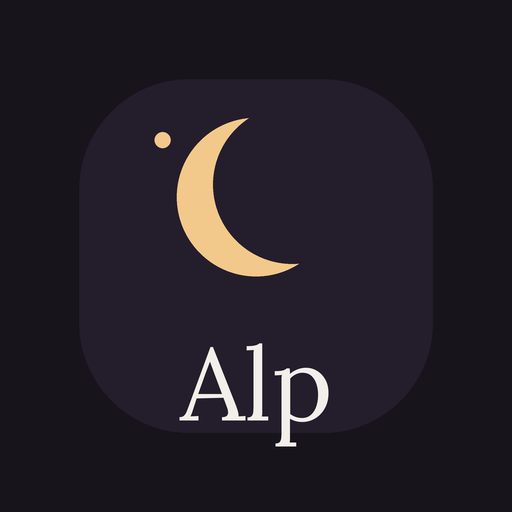
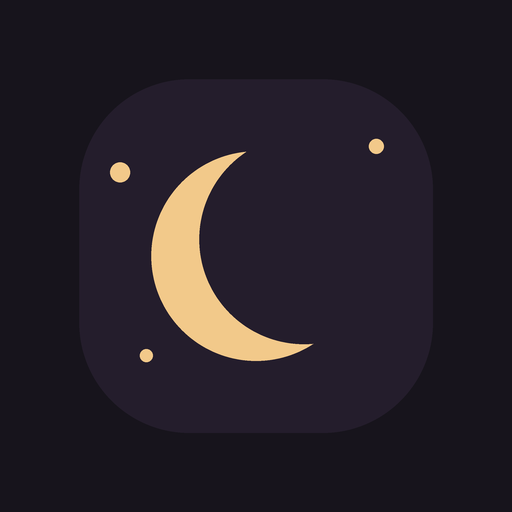
Isim gizliligi, cok dozlu bakim takibi ve tarih araligi PDF raporu

diff --git a/index.html b/index.html
@@ -3,14 +3,14 @@
 <head>
 <meta charset="UTF-8" />
 <meta name="viewport" content="width=device-width, initial-scale=1, maximum-scale=1, viewport-fit=cover" />
-<title>Alp · Bebek Takip</title>
+<title>Bebek Takip</title>
 <link rel="manifest" href="manifest.json" />
 <link rel="icon" href="icon-192.png" />
 <link rel="apple-touch-icon" href="icon-192.png" />
 <meta name="theme-color" content="#17141c" id="themeColor" />
 <meta name="apple-mobile-web-app-capable" content="yes" />
 <meta name="apple-mobile-web-app-status-bar-style" content="black-translucent" />
-<meta name="apple-mobile-web-app-title" content="Alp" />
+<meta name="apple-mobile-web-app-title" content="Bebek Takip" />
 <link rel="preconnect" href="https://fonts.googleapis.com">
 <link rel="preconnect" href="https://fonts.gstatic.com" crossorigin>
 <link href="https://fonts.googleapis.com/css2?family=Fraunces:opsz,wght@9..144,400;9..144,600;9..144,700&family=Inter:wght@400;500;600&display=swap" rel="stylesheet">
@@ -196,6 +196,20 @@
   .vbtn.on{border-color:var(--care);color:var(--care);}
   .vnote{font-size:10.5px;color:var(--muted);line-height:1.6;margin-top:18px;padding:0 2px;}
 
+  .doseTag{display:inline-block;background:var(--alertBg);color:var(--milk);border-radius:5px;
+    padding:1px 6px;font-size:9.5px;margin-left:6px;font-family:'Inter',sans-serif;vertical-align:middle;}
+  .doseDot{width:8px;height:8px;border-radius:50%;background:var(--surface-2);
+    border:1px solid var(--line);display:inline-block;}
+  .doseDot.on{background:var(--care);border-color:var(--care);}
+  .doseDot.late{border-color:var(--alert);background:transparent;}
+  .doseTimes{font-size:10.5px;color:var(--muted);margin-left:6px;}
+  .careActs{display:flex;align-items:center;gap:10px;}
+  .careCfg{background:none;border:none;color:var(--muted);font-size:13px;cursor:pointer;padding:2px 4px;}
+  .careCfgBox{margin-top:11px;padding-top:11px;border-top:1px solid var(--line);}
+  .doseTimeRow{display:flex;gap:6px;flex-wrap:wrap;}
+  .doseTime{background:var(--surface-2);border:1px solid var(--line);color:var(--text);
+    border-radius:8px;padding:6px 8px;font-size:12px;font-family:'Inter',sans-serif;}
+
   .tabs{position:fixed;left:0;right:0;bottom:0;background:var(--tabBg);backdrop-filter:blur(14px);
     border-top:1px solid var(--line);display:flex;padding:7px 8px calc(7px + env(safe-area-inset-bottom));
     max-width:460px;margin:0 auto;}
@@ -212,7 +226,7 @@
 <div class="loginWrap" id="loginScreen" style="display:none;">
   <div class="loginCard">
     <div class="loginMoon">🌙</div>
-    <h1 class="loginTitle">Alp</h1>
+    <h1 class="loginTitle">Bebek Takip</h1>
     <div class="loginSub">Devam etmek için şifre girin</div>
     <input type="password" id="pinInput" placeholder="••••••••" autocomplete="current-password" />
     <button id="loginBtn">Giriş yap</button>
@@ -225,7 +239,7 @@
     <div class="hdrL">
       <div class="hdrMoon">🌙<span class="star">✦</span></div>
       <div>
-        <h1 class="hdrName" id="hdrName">Alp</h1>
+        <h1 class="hdrName" id="hdrName">&nbsp;</h1>
         <div class="hdrSub" id="hdrSub">Bağlanılıyor…</div>
       </div>
     </div>
@@ -256,7 +270,7 @@ const SUPABASE_URL="https://mqsrnkzdfzstznfqflso.supabase.co";
 const SUPABASE_ANON_KEY="sb_publishable_2yIWU2OZOqhKoXORpO5_9g_rzey2_9z";
 const LOGIN_EMAIL="aile@bebektakip.app";
 const VAPID_PUBLIC_KEY="BJZkyQ1h6ATndhytyv-MwjU4YSiWxF3wyiROm6IwREzDEguikK1MAwx1poklTCARspIURcBb4urk_y88BrBPJbA";
-const BABY="Alp";
+let BABY="";  // giriş sonrası settings tablosundan yüklenir
 
 /* ---- theme ---- */
 function applyTheme(t){
@@ -335,11 +349,35 @@ function greeting(){
 const FEED={ milk:{name:'Anne Sütü',ic:'🤱',color:'var(--milk)'}, formula:{name:'Mama',ic:'🍼',color:'var(--formula)'}, pump:{name:'Sağma',ic:'🫙',color:'var(--pump)'} };
 const DIAPER={ pee:{name:'Çiş',ic:'💧',color:'var(--pee)'}, poop:{name:'Kaka',ic:'💩',color:'var(--poop)'}, both:{name:'İkisi de',ic:'🧷',color:'var(--poop)'} };
 const CARE={
-  vitamin_d:{name:'Vitamin D',ic:'☀',key:'reminder_vitamin_d_time',daily:1},
-  eye_drops:{name:'Göz Damlası',ic:'👁',key:'reminder_eye_drops_time',daily:1},
-  nose_drops:{name:'Burun Damlası',ic:'💦',key:'reminder_nose_drops_time',daily:1},
-  nose_cleaning:{name:'Burun Temizliği',ic:'🧼',key:null,daily:null},
+  vitamin_d:{name:'Vitamin D',ic:'☀'},
+  eye_drops:{name:'Göz Damlası',ic:'👁'},
+  nose_drops:{name:'Burun Damlası',ic:'💦'},
+  nose_cleaning:{name:'Burun Temizliği',ic:'🧼'},
 };
+function careKey(kind){ return 'care_'+kind+'_times'; }
+function careTimes(kind){
+  const raw=settings[careKey(kind)];
+  if(!raw) return [];
+  return raw.split(',').map(x=>x.trim()).filter(Boolean).sort();
+}
+function defaultTimes(n){
+  if(n<=0) return [];
+  if(n===1) return ['09:00'];
+  const start=8*60, step=(22*60-start)/(n-1);
+  return Array.from({length:n},(_,i)=>{
+    const t=Math.round(start+step*i);
+    return String(Math.floor(t/60)).padStart(2,'0')+':'+String(t%60).padStart(2,'0');
+  });
+}
+function minsNow(){ const d=new Date(); return d.getHours()*60+d.getMinutes(); }
+function toMins(hm){ const [h,m]=hm.split(':').map(Number); return h*60+m; }
+function overdueDose(kind){
+  const times=careTimes(kind);
+  if(!times.length) return -1;
+  const done=careToday(kind).length;
+  for(let i=done;i<times.length;i++){ if(minsNow()>toMins(times[i])) return i; }
+  return -1;
+}
 const INTERVALS=[1.5,2,2.5,3,3.5,4];
 const SIDE={ left:{name:'Sol',short:'sol'}, right:{name:'Sağ',short:'sağ'}, both:{name:'İkisi',short:'ikisi'} };
 const SIDE_TYPES=['milk','pump'];  // taraf sadece emzirme ve sağmada sorulur
@@ -366,7 +404,8 @@ const VACCINES=[
 const ivLabel=v=>v===Math.floor(v)?v+' saat':(Math.floor(v)+' buçuk saat');
 
 let entries=[],diapers=[],careLogs=[],growth=[],vaccines=[],settings={};
-let tab='feed', dsel={feed:today(),diaper:today()}, panel=null, showSettings=false, supabase;
+let tab='feed', dsel={feed:today(),diaper:today()}, panel=null, showSettings=false, careOpen=null, supabase;
+let report={from:'',to:''};
 
 /* ---- rhythm strip ---- */
 function rhythmStrip(dateStr, mode){
@@ -410,8 +449,84 @@ function viewSettings(){
       ${INTERVALS.map(v=>`<div class="chip ${v===fh?'on':''}" data-a="setIv" data-key="reminder_feed_hours" data-v="${v}">${ivLabel(v)}</div>`).join('')}</div></div>
     <div class="setGroup"><div class="setLabel">Sağma hatırlatması — son sağmadan sonra</div><div class="chips">
       ${INTERVALS.map(v=>`<div class="chip ${v===ph?'on':''}" data-a="setIv" data-key="reminder_pump_hours" data-v="${v}">${ivLabel(v)}</div>`).join('')}</div></div>
+    <div class="setGroup"><div class="setLabel">Rapor / PDF çıktısı</div>
+      <div class="row2">
+        <div class="fld"><label>Başlangıç</label><input type="date" value="${report.from||weekAgo()}" data-a="reportField" data-f="from"/></div>
+        <div class="fld"><label>Bitiş</label><input type="date" value="${report.to||today()}" data-a="reportField" data-f="to"/></div>
+      </div>
+      <div class="chips">
+        <div class="chip" data-a="makeReport" data-kind="feed">🍼 Beslenme</div>
+        <div class="chip" data-a="makeReport" data-kind="diaper">💧 Bez</div>
+        <div class="chip" data-a="makeReport" data-kind="all">📄 İkisi birden</div>
+      </div>
+      <div class="setLabel" style="margin-top:-4px;">Açılan sayfada “PDF olarak kaydet”e dokunun</div>
+    </div>
     <div class="pacts"><button class="bCancel" data-a="closeSettings">Kapat</button></div>
   </div>`;
+}
+function weekAgo(){ const d=new Date(); d.setDate(d.getDate()-6); return fmtDate(d); }
+function daysBetween(from,to){
+  const out=[], d=new Date(from+'T00:00:00'), end=new Date(to+'T00:00:00');
+  while(d<=end){ out.push(fmtDate(d)); d.setDate(d.getDate()+1); }
+  return out;
+}
+function buildReport(kind){
+  const from=report.from||weekAgo(), to=report.to||today();
+  if(new Date(from+'T00:00:00')>new Date(to+'T00:00:00')) return null;
+  const days=daysBetween(from,to);
+  if(!days.length||days.length>120) return null;
+  const showFeed=kind==='feed'||kind==='all', showDia=kind==='diaper'||kind==='all';
+  const title=(BABY?BABY+' · ':'')+'Takip Raporu';
+  const fmtL=d=>new Date(d+'T00:00:00').toLocaleDateString('tr-TR',{day:'numeric',month:'long',year:'numeric'});
+  let tMilk=0,tForm=0,tPump=0,tFeeds=0,tPee=0,tPoop=0;
+  const blocks=days.map(ds=>{
+    const fe=entries.filter(e=>localDay(e.time)===ds).sort((a,b)=>new Date(a.time)-new Date(b.time));
+    const di=diapers.filter(d=>localDay(d.time)===ds).sort((a,b)=>new Date(a.time)-new Date(b.time));
+    const milk=fe.filter(e=>e.type==='milk').reduce((s,e)=>s+e.amount,0);
+    const form=fe.filter(e=>e.type==='formula').reduce((s,e)=>s+e.amount,0);
+    const pump=fe.filter(e=>e.type==='pump').reduce((s,e)=>s+e.amount,0);
+    const feeds=fe.filter(e=>e.type!=='pump').length;
+    const pee=di.filter(d=>d.kind!=='poop').length, poop=di.filter(d=>d.kind!=='pee').length;
+    tMilk+=milk;tForm+=form;tPump+=pump;tFeeds+=feeds;tPee+=pee;tPoop+=poop;
+    if((!showFeed||!fe.length)&&(!showDia||!di.length)) return '';
+    const sum=[];
+    if(showFeed) sum.push(`Anne sütü ${milk} cc`,`Mama ${form} cc`,`Sağma ${pump} cc`,`${feeds} beslenme`);
+    if(showDia) sum.push(`${pee} çiş`,`${poop} kaka`);
+    let t='';
+    if(showFeed&&fe.length) t+=`<table><thead><tr><th>Saat</th><th>Tür</th><th>Miktar</th><th>Taraf</th></tr></thead><tbody>`
+      +fe.map(e=>`<tr><td>${hhmm(e.time)}</td><td>${FEED[e.type].name}</td><td>${e.amount} cc</td><td>${e.side?SIDE[e.side].name:'–'}</td></tr>`).join('')+`</tbody></table>`;
+    if(showDia&&di.length) t+=`<table><thead><tr><th>Saat</th><th>Bez</th></tr></thead><tbody>`
+      +di.map(d=>`<tr><td>${hhmm(d.time)}</td><td>${DIAPER[d.kind].name}</td></tr>`).join('')+`</tbody></table>`;
+    return `<section><h3>${new Date(ds+'T00:00:00').toLocaleDateString('tr-TR',{day:'numeric',month:'long',year:'numeric',weekday:'long'})}</h3>
+      <p class="sum">${sum.join(' · ')}</p>${t}</section>`;
+  }).join('');
+  const nd=days.length, avg=[];
+  if(showFeed) avg.push(`<tr><td>Günlük ortalama anne sütü</td><td>${Math.round(tMilk/nd)} cc</td></tr>`,
+    `<tr><td>Günlük ortalama mama</td><td>${Math.round(tForm/nd)} cc</td></tr>`,
+    `<tr><td>Günlük ortalama toplam alım</td><td>${Math.round((tMilk+tForm)/nd)} cc</td></tr>`,
+    `<tr><td>Günlük ortalama sağma</td><td>${Math.round(tPump/nd)} cc</td></tr>`,
+    `<tr><td>Günlük ortalama beslenme sayısı</td><td>${(tFeeds/nd).toFixed(1)}</td></tr>`);
+  if(showDia) avg.push(`<tr><td>Günlük ortalama çiş</td><td>${(tPee/nd).toFixed(1)}</td></tr>`,
+    `<tr><td>Günlük ortalama kaka</td><td>${(tPoop/nd).toFixed(1)}</td></tr>`);
+  return `<!DOCTYPE html><html lang="tr"><head><meta charset="utf-8"><meta name="viewport" content="width=device-width,initial-scale=1"><title>${title}</title>
+  <style>@page{margin:16mm;}*{box-sizing:border-box;}
+  body{font-family:-apple-system,BlinkMacSystemFont,'Segoe UI',Roboto,sans-serif;color:#1a1a1a;margin:0;padding:22px;line-height:1.45;}
+  h1{font-size:20px;margin:0 0 3px;}.range{color:#666;font-size:13px;margin-bottom:18px;}
+  h2{font-size:14px;margin:22px 0 8px;border-bottom:1px solid #ddd;padding-bottom:5px;}
+  section{margin-bottom:16px;page-break-inside:avoid;}h3{font-size:13px;margin:0 0 3px;}
+  .sum{margin:0 0 7px;color:#555;font-size:11.5px;}
+  table{width:100%;border-collapse:collapse;font-size:11.5px;margin-bottom:7px;}
+  th{text-align:left;background:#f3f3f3;padding:4px 7px;font-weight:600;border-bottom:1px solid #ddd;}
+  td{padding:4px 7px;border-bottom:1px solid #eee;}
+  .totals td:first-child{color:#555;}.totals td:last-child{text-align:right;font-weight:600;}
+  footer{margin-top:24px;color:#888;font-size:10px;border-top:1px solid #ddd;padding-top:8px;}
+  .noprint{position:fixed;top:10px;right:10px;background:#1a1a1a;color:#fff;border:none;padding:11px 16px;border-radius:8px;font-size:14px;cursor:pointer;}
+  @media print{body{padding:0;}.noprint{display:none;}}</style></head><body>
+  <button class="noprint" onclick="window.print()">PDF olarak kaydet</button>
+  <h1>${title}</h1><div class="range">${fmtL(from)} – ${fmtL(to)} · ${nd} gün</div>
+  <h2>Özet</h2><table class="totals">${avg.join('')}</table>
+  <h2>Günlük kayıtlar</h2>${blocks||'<p style="color:#888;font-size:12px;">Bu aralıkta kayıt yok.</p>'}
+  <footer>Oluşturulma: ${new Date().toLocaleString('tr-TR')}</footer></body></html>`;
 }
 
 /* ---- FEED ---- */
@@ -602,26 +717,39 @@ function careToday(k){ return careLogs.filter(c=>c.kind===k&&isToday(c.time)).so
 function viewCare(){
   const rows=Object.entries(CARE).map(([kind,m])=>{
     const list=careToday(kind), n=list.length;
-    const target=m.key?settings[m.key]:null;
-    const done=m.daily?n>=m.daily:n>0;
+    const times=careTimes(kind), target=times.length;
+    const od=overdueDose(kind);
+    const done = target>0 ? n>=target : n>0;
     let meta;
-    if(m.daily){
-      if(n>0) meta=`Bugün yapıldı · ${hhmm(list[0].time)}`;
-      else{
-        const [h,mi]=(target||'09:00').split(':').map(Number);
-        const t=new Date(); t.setHours(h,mi,0,0);
-        meta=Date.now()>t.getTime()?`<span class="late">Saati geçti — henüz yapılmadı</span>`:`Bugün için planlandı`;
-      }
-    } else meta = n>0?`Bugün ${n} kez · son ${hhmm(list[0].time)}`:'Bugün henüz yapılmadı';
-    return `<div class="care"><div class="careTop">
-      <div class="careL"><div class="careIc ${done?'done':''}">${m.ic}</div>
-        <div style="min-width:0;"><div class="careName">${m.name}</div><div class="careMeta">${meta}</div></div></div>
-      <button class="careAdd ${done?'done':''}" data-a="logCare" data-k="${kind}">${done&&m.daily?'✓ Yapıldı':'+ Kaydet'}</button></div>
+    if(target>0){
+      if(n>=target) meta=`Bugün tamamlandı · ${n}/${target} doz`;
+      else if(od>=0) meta=`<span class="late">${od+1}. doz saati geçti (${times[od]})</span> · ${n}/${target}`;
+      else meta=`${n}/${target} doz · sırada ${times[n]}`;
+    } else {
+      meta = n>0 ? `Bugün ${n} kez · son ${hhmm(list[0].time)}` : 'Bugün henüz yapılmadı';
+    }
+    const open = careOpen===kind;
+    return `<div class="care">
+      <div class="careTop">
+        <div class="careL"><div class="careIc ${done?'done':''}">${m.ic}</div>
+          <div style="min-width:0;"><div class="careName">${m.name}${target>1?`<span class="doseTag">${target}x1</span>`:''}</div>
+          <div class="careMeta">${meta}</div></div></div>
+        <button class="careAdd ${done?'done':''}" data-a="logCare" data-k="${kind}">${done&&target>0?'✓ Tamam':'+ Kaydet'}</button></div>
       <div class="careBottom">
-        ${m.key?`<div class="careTimes">Hatırlatma <input type="time" value="${target||'09:00'}" data-a="setTime" data-key="${m.key}"/></div>`
-          :`<div class="careDots">${n?Array.from({length:Math.min(n,8)}).map(()=>`<span class="careDot"></span>`).join(''):'<span style="font-size:11px;color:var(--muted)">kayıt yok</span>'}${n>8?`<span style="font-size:11px;color:var(--muted);margin-left:3px;">+${n-8}</span>`:''}</div>`}
-        ${n?`<button class="careUndo" data-a="undoCare" data-id="${list[0].id}">son kaydı geri al</button>`:'<span></span>'}
-      </div></div>`;
+        <div class="careDots">
+          ${target>0
+            ? times.map((t,i)=>`<span class="doseDot ${i<n?'on':(minsNow()>toMins(t)?'late':'')}"></span>`).join('')
+              +`<span class="doseTimes">${times.join(' · ')}</span>`
+            : (n?Array.from({length:Math.min(n,10)}).map(()=>`<span class="doseDot on"></span>`).join('')+(n>10?`<span class="doseTimes">+${n-10}</span>`:'')
+                :'<span class="doseTimes">planlanmadı</span>')}
+        </div>
+        <div class="careActs">
+          ${n?`<button class="careUndo" data-a="undoCare" data-id="${list[0].id}">geri al</button>`:''}
+          <button class="careCfg" data-a="careCfg" data-k="${kind}">${open?'✕':'⚙'}</button>
+        </div>
+      </div>
+      ${open?careConfig(kind,times):''}
+    </div>`;
   }).join('');
   const log=careLogs.filter(c=>isToday(c.time)).sort((a,b)=>new Date(b.time)-new Date(a.time));
   return rows+(log.length?`<div class="listLabel">Bugünün bakım kayıtları</div>`+log.map(c=>
@@ -629,6 +757,16 @@ function viewCare(){
       <div class="itemMid"><div class="itemName">${CARE[c.kind].name}</div><div class="itemMeta">${hhmm(c.time)} · ${ago(c.time)}</div></div>
       <div class="itemBtns"><button data-a="delCare" data-id="${c.id}">✕</button></div></div>`).join('')
     :`<div class="blank">Bugün için bakım kaydı yok.</div>`);
+}
+function careConfig(kind,times){
+  return `<div class="careCfgBox">
+    <div class="setLabel">Günde kaç doz?</div>
+    <div class="chips">${[0,1,2,3,4,5,6].map(n=>
+      `<div class="chip ${n===times.length?'on':''}" data-a="setDoseCount" data-k="${kind}" data-n="${n}">${n===0?'yok':n+'x1'}</div>`).join('')}</div>
+    ${times.length?`<div class="setLabel">Hatırlatma saatleri</div>
+      <div class="doseTimeRow">${times.map((t,i)=>
+        `<input type="time" class="doseTime" value="${t}" data-a="setDoseTime" data-k="${kind}" data-i="${i}"/>`).join('')}</div>`:''}
+  </div>`;
 }
 
 /* ---- GROWTH (grams) ---- */
@@ -703,11 +841,11 @@ function renderAlerts(){
   const lp=all.find(e=>e.type==='pump');
   if(lp&&hoursSince(lp.time)>=ph) out.push(`Sağma vakti — son sağmadan ${Math.floor(hoursSince(lp.time))} saatten fazla geçti`);
   Object.entries(CARE).forEach(([k,m])=>{
-    if(!m.key) return;
-    const t=settings[m.key]; if(!t||careToday(k).length) return;
-    const [h,mi]=t.split(':').map(Number);
-    const d=new Date(); d.setHours(h,mi,0,0);
-    if(Date.now()>d.getTime()) out.push(`${m.name} bugün henüz yapılmadı (${t})`);
+    const od=overdueDose(k);
+    if(od<0) return;
+    const times=careTimes(k);
+    out.push(times.length>1 ? `${m.name} — ${od+1}. doz saati geçti (${times[od]})`
+                            : `${m.name} bugün henüz yapılmadı (${times[od]})`);
   });
   $('alerts').innerHTML=out.map(t=>`<div class="alert">⏰ ${esc(t)}</div>`).join('');
 }
@@ -715,7 +853,8 @@ function renderAlerts(){
 function renderHeader(){
   const birth=growth.find(x=>x.is_birth);
   const age=birth?babyAge(birth.measured_on):null;
-  $('hdrName').textContent=BABY;
+  $('hdrName').textContent=BABY||'Bebek Takip';
+  if(BABY) document.title=BABY+' · Bebek Takip';
   $('hdrSub').textContent = age ? `${age} · ${greeting()}` : greeting();
 }
 function render(){
@@ -727,9 +866,17 @@ function render(){
 
 /* ---- events ---- */
 document.addEventListener('change', async ev=>{
-  const t=ev.target.closest('[data-a="setTime"]');
-  if(!t) return;
-  await supabase.from('settings').upsert({key:t.dataset.key,value:t.value},{onConflict:'key'});
+  const t=ev.target.closest('[data-a="setDoseTime"]');
+  if(t){
+    const kind=t.dataset.k, i=Number(t.dataset.i);
+    const times=careTimes(kind).slice(); times[i]=t.value;
+    const val=times.sort().join(',');
+    settings[careKey(kind)]=val;
+    await supabase.from('settings').upsert({key:careKey(kind),value:val},{onConflict:'key'});
+    render(); return;
+  }
+  const r=ev.target.closest('[data-a="reportField"]');
+  if(r) report[r.dataset.f]=r.value;
 });
 document.addEventListener('click', async ev=>{
   const b=ev.target.closest('[data-a]');
@@ -743,6 +890,13 @@ document.addEventListener('click', async ev=>{
     settings[b.dataset.key]=b.dataset.v; render(); return;
   }
   if(a==='closeSettings'){ showSettings=false; render(); return; }
+  if(a==='makeReport'){
+    const html=buildReport(b.dataset.kind);
+    if(!html){ alert('Tarih aralığı geçersiz (başlangıç bitişten önce olmalı, en fazla 120 gün).'); return; }
+    const w=window.open('','_blank');
+    if(!w){ alert('Rapor penceresi açılamadı — tarayıcı engellemiş olabilir.'); return; }
+    w.document.write(html); w.document.close(); return;
+  }
 
   if(a==='prev'||a==='next'){
     const s=b.dataset.s,d=new Date(dsel[s]+'T00:00:00');
@@ -791,6 +945,17 @@ document.addEventListener('click', async ev=>{
     if(panel.id) await supabase.from('growth').update(row).eq('id',panel.id);
     else await supabase.from('growth').insert(row);
     panel=null;
+  }
+  else if(a==='careCfg'){ careOpen = careOpen===b.dataset.k?null:b.dataset.k; }
+  else if(a==='setDoseCount'){
+    const kind=b.dataset.k, n=Number(b.dataset.n), cur=careTimes(kind);
+    let times;
+    if(n===0) times=[];
+    else if(n<=cur.length) times=cur.slice(0,n);
+    else { times=cur.slice(); const d=defaultTimes(n); for(let i=cur.length;i<n;i++) times.push(d[i]); }
+    const val=times.sort().join(',');
+    settings[careKey(kind)]=val;
+    await supabase.from('settings').upsert({key:careKey(kind),value:val},{onConflict:'key'});
   }
   else if(a==='pickSide'){ panel={...panel, side:b.dataset.v||null}; }
   else if(a==='markVaccine'){ panel={s:'vaccine',code:b.dataset.code,dose:Number(b.dataset.dose),date:today()}; }
@@ -852,11 +1017,11 @@ async function refetch(){
   if(!b.error) diapers=b.data;
   if(!c.error) careLogs=c.data;
   if(!d.error) growth=d.data.map(x=>({...x,weight_kg:x.weight_kg!=null?Number(x.weight_kg):null,height_cm:x.height_cm!=null?Number(x.height_cm):null}));
-  if(!e.error){ settings={}; e.data.forEach(r=>settings[r.key]=r.value); }
+  if(!e.error){ settings={}; e.data.forEach(r=>settings[r.key]=r.value); BABY=settings.baby_name||''; }
   if(!v.error) vaccines=v.data;
   render();
 }
-function showLogin(){ $('loginScreen').style.display='flex'; $('appScreen').style.display='none'; $('tabs').style.display='none'; }
+function showLogin(){ BABY=''; document.title='Bebek Takip'; $('loginScreen').style.display='flex'; $('appScreen').style.display='none'; $('tabs').style.display='none'; }
 function showApp(){ $('loginScreen').style.display='none'; $('appScreen').style.display='block'; $('tabs').style.display='flex'; }
 async function start(){
   await refetch();
